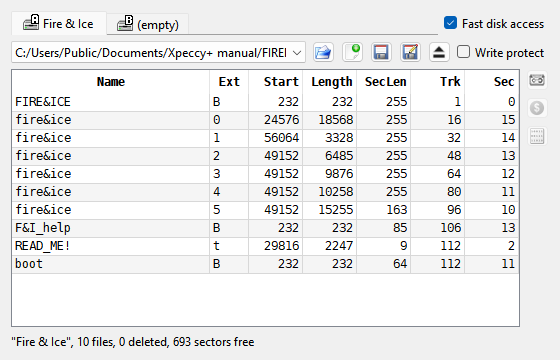
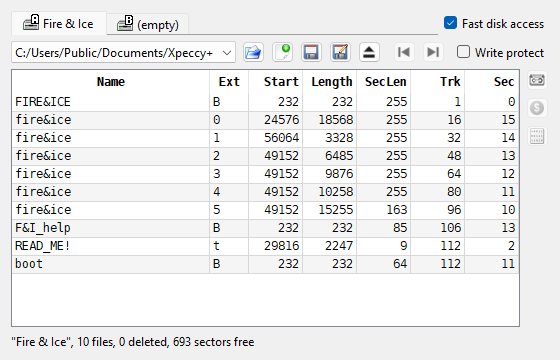
manual: the side buttons of the Tape Player and the Disk Manager, Autoreverse; side letters in capitals

Changed region(s): [[0.3946, 0.0917, 0.8196, 0.1833]]

diff --git a/docs/manual/tapes.md b/docs/manual/tapes.md
@@ -49,7 +49,11 @@ a bar shows how far the tape is into the current block.
 At the bottom are the buttons of the deck: {icon}`tape-rec` **Record**,
 {icon}`tape-play` **Play**, {icon}`tape-rewind` **Rewind to the start**,
 {icon}`tape-stop` **Stop** and {icon}`tape-eject` **Eject the tape**. A tape cannot be
-ejected or rewound while it plays.
+ejected or rewound while it plays. After them, {icon}`tape-prev` **Previous tape of the
+set** and {icon}`tape-next` **Next tape of the set** put in the other sides (gray when the
+tape has none; see
+[The other sides beside an image](files.md#the-other-sides-beside-an-image)), and
+{icon}`tape-autorev` **Autoreverse** is **Next tape of a set**, described below.
 
 The window title says **Tape Player - modified** when blocks were recorded, moved or
 deleted since the tape was opened or saved.
@@ -118,12 +122,14 @@ A tape that is one of a set (see
 [The other sides beside an image](files.md#the-other-sides-beside-an-image)) goes on
 instead: when a program's own loader reads it again at its end, or a load through the ROM
 asks for a block that is not on it, the next tape of the set goes in at its start and
-plays - side A, side B, then side A again - and the screen shows `tape: side b`. A game whose
+plays - side A, side B, then side A again - and the screen shows `tape: side B`. A game whose
 levels are on side B gets them after side A with no hand on the deck. **Play** rewinds the
-tape that is in, as above, and so does a tape you have recorded on. With **Next tape of a
-set** off (Options, see [Machine page](options-machine.md)) the tape that is in rewinds
-instead, as a lone one does: for a game that loads its levels again and again from side B
-and needs side A only to start. Shift+F3 still changes the side by hand.
+tape that is in, as above, and so does a tape you have recorded on. With
+{icon}`tape-autorev` **Autoreverse** up (**Next tape of a set** in Options, see
+[Machine page](options-machine.md)) the tape that is in rewinds instead, as a lone one
+does: for a game that loads its levels again and again from side B and needs side A only
+to start, or one that goes wrong when it is given side A again. The buttons beside it and
+Shift+F3 still change the side by hand.
 
 With this switch off, the tape stays at its end until you rewind it: turn it off for a game
 that asks you to turn the tape over, or the game gets the same side again. It is on by

diff --git a/docs/manual/files.md b/docs/manual/files.md
@@ -142,8 +142,10 @@ has no key at first (see [Hotkeys](hotkeys.md)). It works on the tape or the dri
 program used last, the one the window title names, and keeps to it while you press it again;
 before the program has used either, on the tape if it is one of a set, else on drive A. A
 playing tape is stopped first. A disk that is in another drive is passed over. The screen
-shows what went in, as `drive A: side b`, or `no other side`. Of the files of one side, as
-`Side A` and `Side A [a]`, the one with the same notes in brackets goes in.
+shows what went in, as `drive A: side B`, or `no other side`. Of the files of one side, as
+`Side A` and `Side A [a]`, the one with the same notes in brackets goes in. The
+{icon}`tape-prev` {icon}`tape-next` buttons of the **Tape Player** and of each drive in the
+**Disk Manager** do the same for the tape or that drive.
 
 The set is found by the names: files named the same but for the side or the part, as
 `Game (Side A).tzx` and `Game (Side B).tzx`, `Game - Side 1.tzx`, `game_a.tap` and

diff --git a/docs/manual/disks.md b/docs/manual/disks.md
@@ -132,7 +132,8 @@ the drives and on the disks. In the picture drive A holds Fire 'n Ice (n-Discove
   its set, then buttons to {icon}`fileopen` open
   a disk image, {icon}`doc-new` insert a new disk, {icon}`floppy` save the changes to the
   disk's own file, {icon}`save-as` save the disk to a new file, and {icon}`tape-eject` eject,
-  and the **Write protect** box.
+  {icon}`tape-prev` the previous and {icon}`tape-next` the next disk of the set (gray when
+  the disk has none), and the **Write protect** box.
   They do what the **Floppy Drives** menu does.
 - **The catalog** - the files on a TR-DOS disk: **Name**, **Ext**, **Start**, **Length**,
   **SecLen** (length in sectors), **Trk** and **Sec** (where the file begins). A +3DOS disk

diff --git a/docs/manual/options-machine.md b/docs/manual/options-machine.md
@@ -105,8 +105,9 @@ row opens the **Machine: Tape** sheet:
   on to the next one (on by default), or, off, starts over itself;
 - **Fast loading**, **Flash loading** and **Edge detection**.
 
-**Playback speed**, **Auto play / stop**, **Rewind at end** and **Fast loading** are also in
-the **Tape Player**, where a change takes effect at once; **Next tape of a set** is here only.
+**Playback speed**, **Auto play / stop**, **Rewind at end**, **Next tape of a set**
+({icon}`tape-autorev` **Autoreverse** there) and **Fast loading** are also in the
+**Tape Player**, where a change takes effect at once.
 
 The tape's loudness is **Tape** in the **Volumes** group of the **Sound** page (see
 [Sound page](options-sound.md)).
